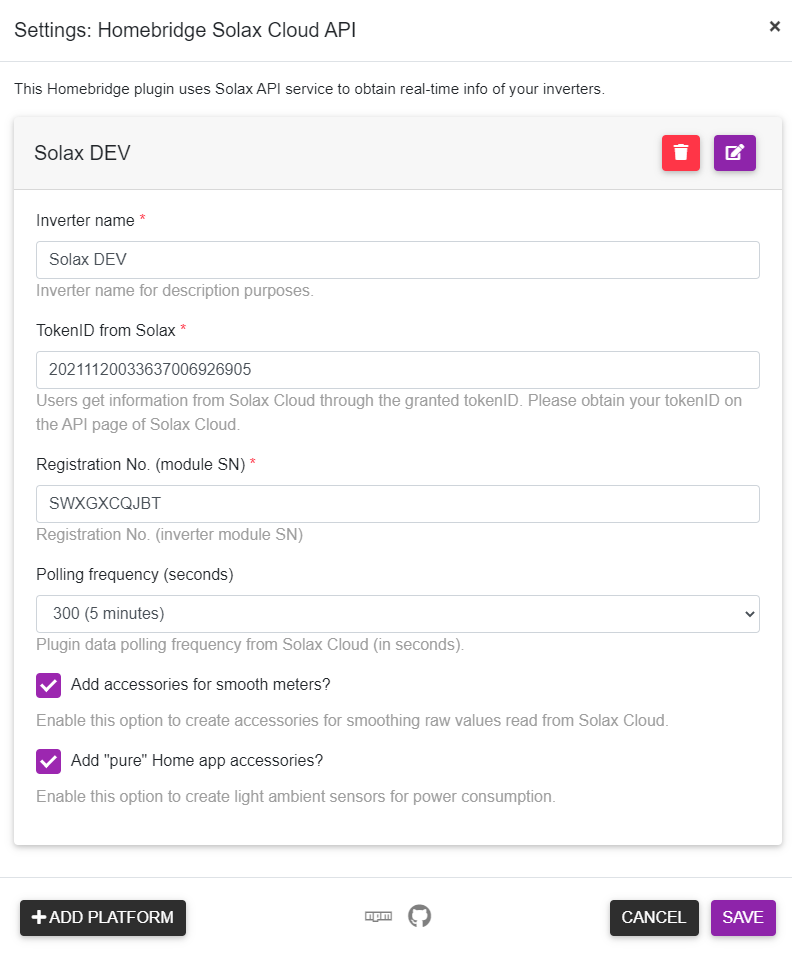
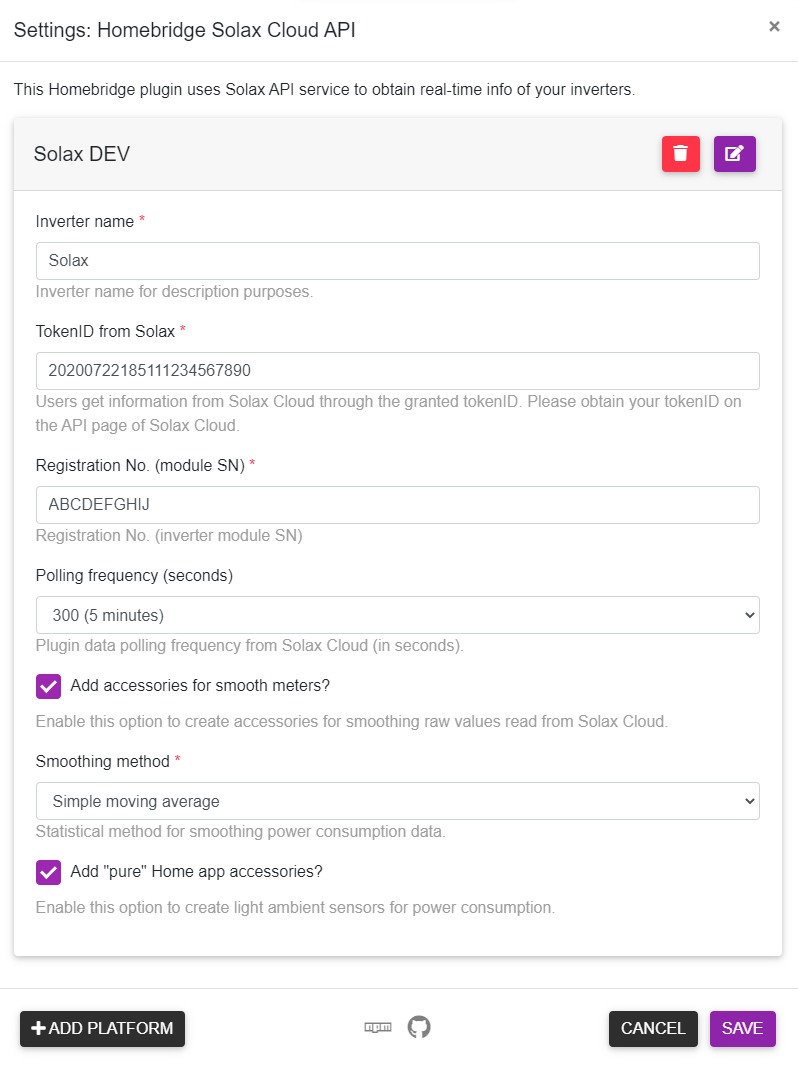
added exponential moving average as smoothing method

diff --git a/src/platform.ts b/src/platform.ts
@@ -431,40 +431,39 @@ export class SolaxCloudAPIPlatform implements StaticPlatformPlugin {
     }
 
     // check for smooth meters
-    if (this.config.smoothMeters === undefined) {
-      this.config.smoothMeters = true;
-      this.log.info(`Config check: No config for smooth meters, defaulting to ${this.config.smoothMeters}.`);
+    if (config.smoothMeters === undefined) {
+      config.smoothMeters = true;
+      this.log.info(`Config check: No config for smooth meters, defaulting to ${config.smoothMeters}.`);
     } else {
-      if (typeof this.config.smoothMeters !== 'boolean') {
-        this.config.smoothMeters = true;
-        this.log.info(`Config check: Invalid setting for smooth meters, defaulting to ${this.config.smoothMeters}.`);
+      if (typeof config.smoothMeters !== 'boolean') {
+        config.smoothMeters = true;
+        this.log.info(`Config check: Invalid setting for smooth meters, defaulting to ${config.smoothMeters}.`);
       }
     }
 
     // check for smoothing method
-    if (this.config.smoothingMethod === undefined) {
+    if (config.smoothingMethod === undefined) {
       this.log.info(`Config check: No smoothing method provided, defaulting to "${DEFAULT_SMOOTHING_METHOD}".`);
       config.smoothingMethod = DEFAULT_SMOOTHING_METHOD;
     } else {
-      if (!VALID_SMOOTHING_METHODS.find(this.config.smoothingMethod)) {
+      if (!VALID_SMOOTHING_METHODS.includes(config.smoothingMethod)) {
         this.log.info(`Config check: Invalid smoothing method, defaulting to "${DEFAULT_SMOOTHING_METHOD}".`);
         config.smoothingMethod = DEFAULT_SMOOTHING_METHOD;
       }
     }
 
     // check for Home app accessories
-    if (this.config.pureHomeApp === undefined) {
-      this.config.pureHomeApp = false;
-      this.log.info(`Config check: No config for using pure Home app accessories, defaulting to ${this.config.pureHomeApp}.`);
+    if (config.pureHomeApp === undefined) {
+      config.pureHomeApp = false;
+      this.log.info(`Config check: No config for using pure Home app accessories, defaulting to ${config.pureHomeApp}.`);
     } else {
-      if (typeof this.config.pureHomeApp !== 'boolean') {
-        this.config.pureHomeApp = false;
-        this.log
-          .info(`Config check: Invalid setting for using pure Home app accessories, defaulting to ${this.config.pureHomeApp}.`);
+      if (typeof config.pureHomeApp !== 'boolean') {
+        config.pureHomeApp = false;
+        this.log.info(`Config check: Invalid setting for using pure Home app accessories, defaulting to ${config.pureHomeApp}.`);
       }
     }
 
-    this.log.info(`Config check: final config is ${JSON.stringify(this.config)}`);
+    this.log.info(`Config check: final config is ${JSON.stringify(config)}`);
 
     return result;
   }

diff --git a/src/outletAccessory.ts b/src/outletAccessory.ts
@@ -41,8 +41,13 @@ export class SolaxOutletAccessory extends SolaxPlatformAccessory implements Acce
 
   /**
    * Power series for smoothing operations.
-   * */
+   */
   private readonly powerSeries: number[] = [];
+
+  /**
+   * Last Exponential Moving Average.
+   */
+  private lastEMA = 0;
 
   /**
    * Solax virtual outlet class constructor.
@@ -116,24 +121,36 @@ export class SolaxOutletAccessory extends SolaxPlatformAccessory implements Acce
 
     let result = 0;
 
+    // get power series for window size
+    const series = this.getPowerSeries().slice(-windowSize);
+
+    // calculate simple moving average from given window size
+    const [sma] = Statistics.simpleMovingAverage(series, Math.min(windowSize, series.length));
+
     // check if we have enough data for averaging
     switch (method) {
       case 'sma':
-        // get power series for window size
-        // eslint-disable-next-line no-case-declarations
-        const series = this.getPowerSeries().slice(-windowSize);
-
-        // calculate simple moving average from given window size
-        // eslint-disable-next-line no-case-declarations
-        const [sma] = Statistics.simpleMovingAverage(series, Math.min(windowSize, series.length));
-
-        this.log.debug(`${this.name}: simple moving average (window data=[${series}], power=${sma}W)`);
-
         result = sma;
+
+        this.log.debug(`${this.name}: simple moving average (window data=[${series}], power=${result}W)`);
 
         break;
 
       case 'ema':
+        if (series.length < windowSize) {
+          result = sma;
+
+          this.log.debug(`${this.name}: exponential moving average (window data=[${series}], last EMA=none, power=${result}W)`);
+        } else {
+          const lastPowerValue = series[series.length - 1];
+          const weight = 2 / (windowSize + 1);
+
+          result = (lastPowerValue - this.lastEMA) * weight + this.lastEMA;
+
+          this.log.debug(`${this.name}: exponential moving average (window data=[${series}], last EMA=${this.lastEMA}, power=${result}W)`);
+        }
+
+        this.lastEMA = result;
     }
 
     return result;

diff --git a/README.md b/README.md
@@ -24,6 +24,8 @@ As HomeKit is still clueless about what a solar panel is, this plugin exposes a 
 
 <img src="images/plugin-accessories-home.png" width="50%" height="50%">
  
+Please note that additional accessories are created by default with smooth power consumption curves (by applying either a simple or exponential moving average to the power series). This prevents sporadic events like a cloud passing by to have an immediate affect on provided meters.
+
 ## Required information
 
 For this plugin to work, two critical pieces of information are required: 
@@ -49,7 +51,7 @@ Minimal platform configuration is depicted by the example configuration file bel
   "platforms": [
     {
       "platform": "SolaxCloudAPI",
-      "name": "My Solax",
+      "name": "Solax",
       "tokenId": "20200722185111234567890",
       "sn": "ABCDEFGHIJ"
     }
@@ -62,11 +64,12 @@ Configuration parameters are described on the table below:
 | ------------------ | -------- | ------------------------------------------------------------------------------------------------------------------------------- | -------------:| :------------: |
 | `platform`         |  string  |  Platform name (must be SolaxCloudAPI)                                                                                          |     -         |       Y        |
 | `name`             |  string  |  Inverter name, used as prefix for accessory naming                                                                             |     -         |       Y        |
-| `tokenId`          |  string  |  Users get information from Solax Cloud through the granted tokenID. Please obtain your tokenID on the API page of Solax Cloud. |     -         |       Y        |
+| `tokenId`          |  string  |  Users get information from Solax Cloud through the granted tokenID. Please obtain your tokenID on the API page of Solax Cloud  |     -         |       Y        |
 | `sn`               |  string  |  Registration No. (inverter module SN)                                                                                          |     -         |       Y        |
 | `pollingFrequency` |  number  |  Plugin data polling frequency from Solax Cloud (in seconds)                                                                    |     300       |       N        |
 | `smoothingMeters`  |  boolean |  Whether to create additional meters by smoothing raw values from Solax Cloud                                                   |     true      |       N        |
-| `pureHomeApp`      |  boolean | Whether to create meters as standard accessories that can be used on the Home App (power will show as ambient light sensors).   |     false     |       N        |
+| `smoothingMethod`  |  string  |  Statistical method to use for smoothing raw values from Solax Cloud (simple or exponential moving average - "sma" or "ema")    |     "sma"     |       N        |
+| `pureHomeApp`      |  boolean |  Whether to create meters as standard accessories that can be used on the Home App (power will show as ambient light sensors)   |     false     |       N        |
 
 **NOTE:** The `pollingFrequency` parameter defaults to 300 seconds, since Solax inverters update cloud data every 5 minutes.
 
@@ -78,13 +81,13 @@ Configuration through the the use of [Homebridge UI](https://github.com/oznu/hom
 
 Non-standard accessory characteristics are available through the use of [Eve for HomeKit app](https://apps.apple.com/us/app/eve-for-homekit/id917695792) you may download from the App Store.
 
-This will allow some important non-standard characteristics to be visible (like power or total energy consumption), as depicted in the image below:
+This will allow some non-standard characteristics to be visible along with its historical data (like power or total energy consumption), as depicted in the image below:
 
 <img src="images/plugin-outlet-consumption.png" width="50%" height="50%">
 
-If you want to rely solely on the native Home App, please enable the `pureHomeApp` config setting by editing the `config.json` file or using Homebridge UI. In this case, power consumption on each meter will be exposed as an Ambient Light Sensor, as shown below (minimum value for an Ambient Light Sensor is 0.1 lux):
+If you want to rely solely on the native Home App, please enable the `pureHomeApp` config setting. In this case, power consumption on each meter will be exposed as an Ambient Light Sensor, as shown below (minimum value for an Ambient Light Sensor is 0.1 lux):
 
-
+<img src="images/plugin-accessories-home-pure.png" width="50%" height="50%">
 
 # Automation
 
